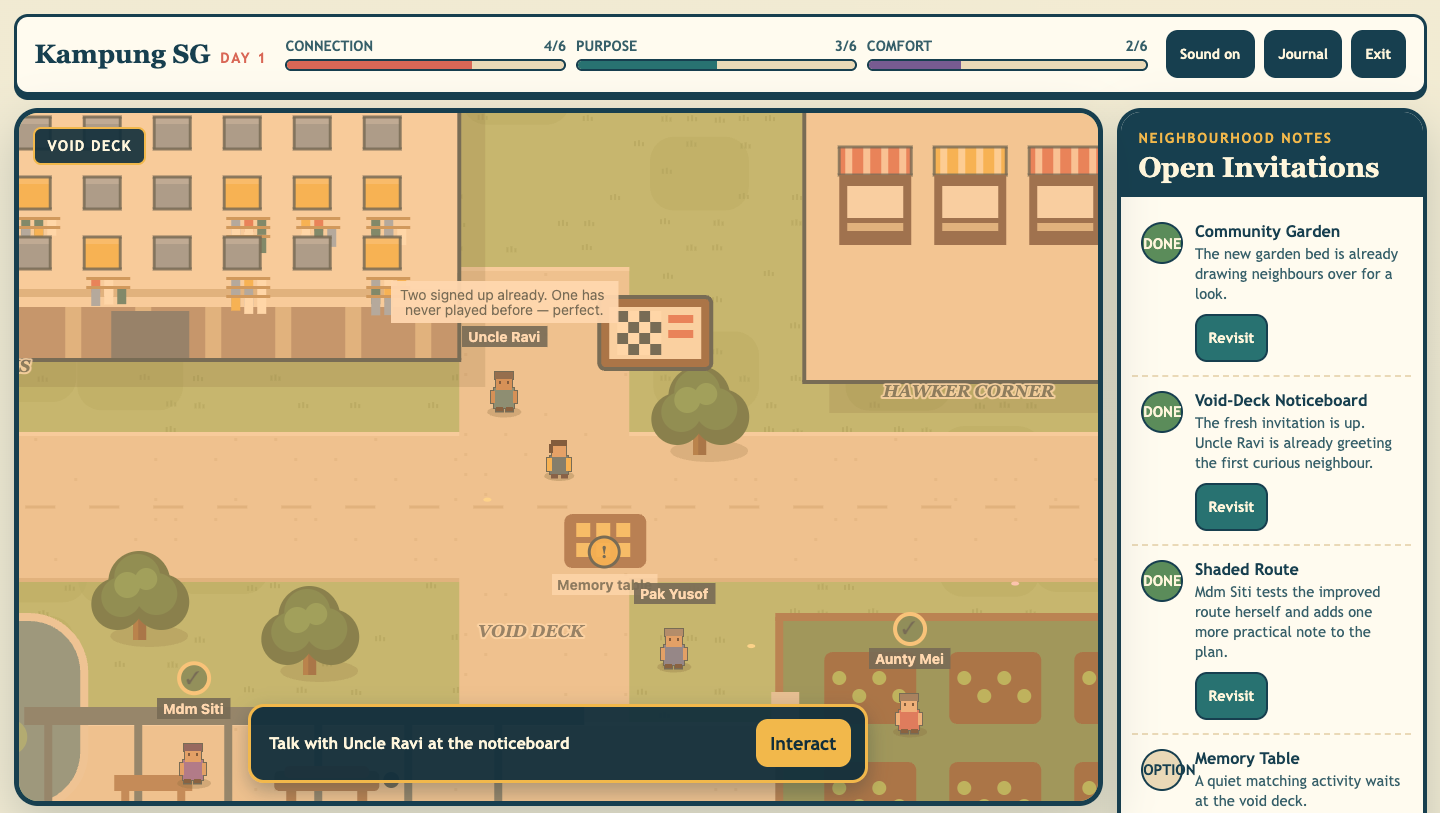
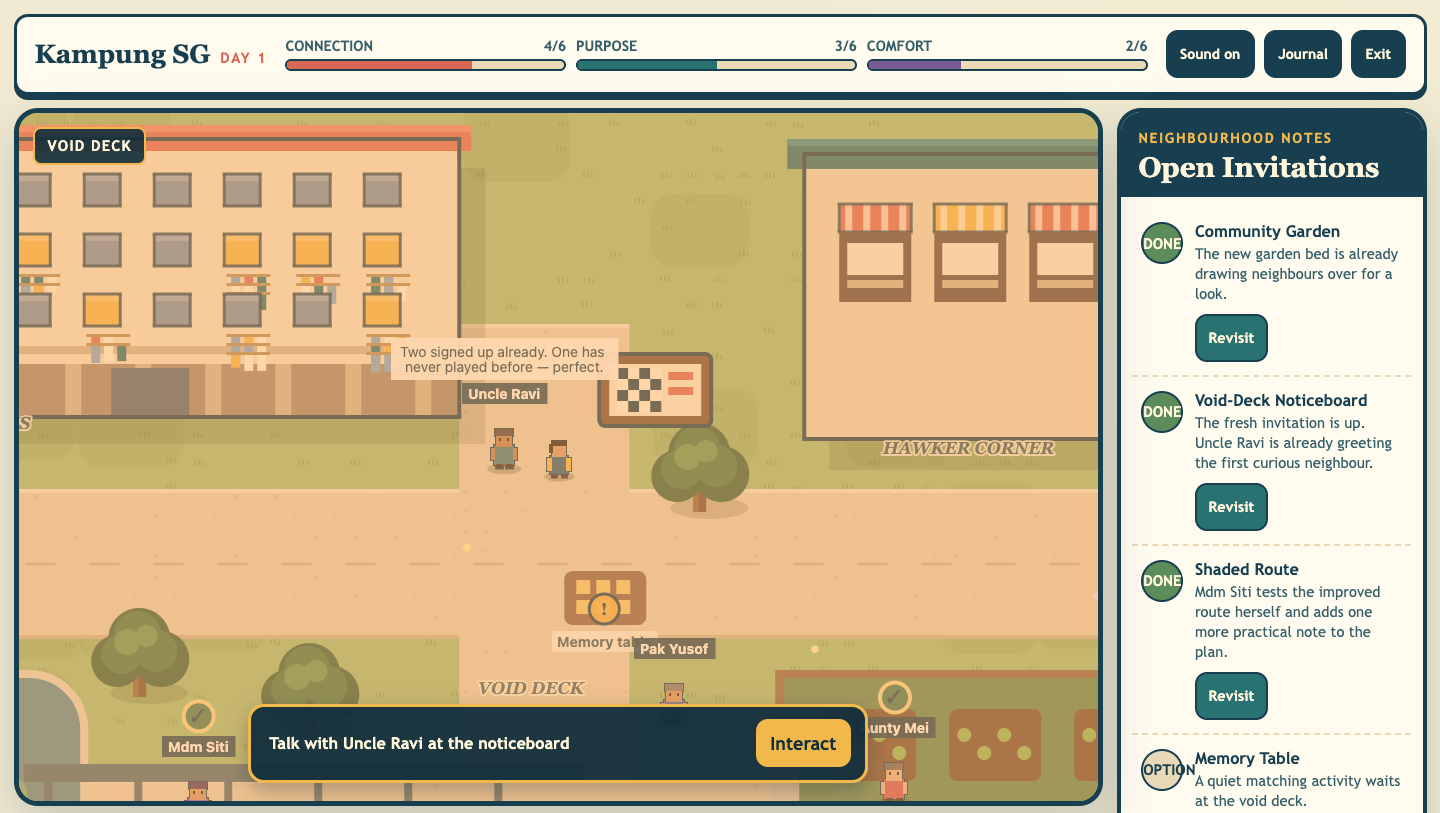
Give the world physical presence, and the bus stop a bus
Collision for everything the player could previously walk through: tree trunks
(canopies stay walk-behind - blocking foliage puts invisible walls metres from
anything visible), the memory table, kopitiam tables, playground and fitness
equipment, walkway posts, and the bus-stop posts, bench and flag. The community
garden is now fenced with a real gate on the walkway side, and the space under
the bus shelter stays walkable, because standing under one is its entire point.

An ambient bus works the lower road: in from the west, eases to a halt at the
stop, waits a moment, pulls away east, and returns every 14-28 seconds. Drawn
procedurally in the estate palette with lit windows; no physics body, so it can
never pin the player. Under prefers-reduced-motion it waits at the stop instead
of driving.

70 tests, 22/22 browser smoke - keyboard-movement checks verified against the
new memory-table collision.

Changed region(s): [[0.0, 0.123, 0.7812, 0.984], [0.5312, 0.123, 0.7812, 0.369], [0.3438, 0.8303, 0.4062, 0.861]]

diff --git a/src/game/sandboxScene.ts b/src/game/sandboxScene.ts
@@ -297,6 +297,7 @@ export class SandboxScene extends Phaser.Scene {
     this.createAmbientLife();
     this.createResidents();
     this.createNeighbours();
+    this.createBus();
     this.createInteractionMarkers();
     this.createPlayer();
     this.createEveningLight();
@@ -475,6 +476,7 @@ export class SandboxScene extends Phaser.Scene {
       graphics.destroy();
     }
 
+    this.createBusTexture();
     this.createResidentTexture("resident-mei", 0xc85c5c, 0x6b6560, 0xe3b58c);
     this.createResidentTexture("resident-ravi", 0x3d7a80, 0x4a4340, 0xb87f52);
     this.createResidentTexture("resident-siti", 0x7b5aa6, 0x4c3b5f, 0xcf9a6c);
@@ -490,6 +492,89 @@ export class SandboxScene extends Phaser.Scene {
    * tone, and everyone gets the same ink outline weight the buildings use, so
    * people stop reading as pasted in from another game.
    */
+  private createBusTexture(): void {
+    if (this.textures.exists("bus")) return;
+    const graphics = this.make.graphics({ x: 0, y: 0 });
+
+    // Body with ink outline, teal service band, and a row of lit windows.
+    graphics.fillStyle(INK, 1);
+    graphics.fillRoundedRect(2, 4, 146, 44, 9);
+    graphics.fillStyle(0xf4e8cf, 1);
+    graphics.fillRoundedRect(5, 7, 140, 38, 7);
+    graphics.fillStyle(TEAL, 1);
+    graphics.fillRect(5, 34, 140, 11);
+
+    graphics.fillStyle(INK, 1);
+    for (let window = 0; window < 5; window += 1) {
+      graphics.fillRect(12 + window * 23, 12, 18, 14);
+    }
+    graphics.fillStyle(0xf4d58d, 1);
+    for (let window = 0; window < 5; window += 1) {
+      graphics.fillRect(14 + window * 23, 14, 14, 10);
+    }
+
+    // Door outline near the front.
+    graphics.fillStyle(INK, 1);
+    graphics.fillRect(126, 12, 3, 30);
+
+    // Wheels and a headlight on the leading edge.
+    graphics.fillStyle(INK, 1);
+    graphics.fillCircle(30, 48, 8);
+    graphics.fillCircle(118, 48, 8);
+    graphics.fillStyle(0x6b6560, 1);
+    graphics.fillCircle(30, 48, 4);
+    graphics.fillCircle(118, 48, 4);
+    graphics.fillStyle(GOLD, 1);
+    graphics.fillRect(142, 26, 5, 8);
+
+    graphics.generateTexture("bus", 152, 58);
+    graphics.destroy();
+  }
+
+  /**
+   * A bus works the lower road: in from the west, eases to a halt at the stop,
+   * waits with the doors open a moment, then pulls away east. Purely ambient -
+   * no physics body, so it can never pin the player. Under reduced motion it
+   * waits at the stop instead of driving.
+   */
+  private createBus(): void {
+    const laneY = 1214;
+    const stopX = 1005;
+    const bus = this.add.sprite(-180, laneY, "bus").setDepth(laneY + 40);
+
+    if (window.matchMedia("(prefers-reduced-motion: reduce)").matches) {
+      bus.setPosition(stopX, laneY);
+      return;
+    }
+
+    const depart = (): void => {
+      this.tweens.add({
+        targets: bus,
+        x: WORLD_WIDTH + 200,
+        duration: 5200,
+        ease: "Sine.easeIn",
+        onComplete: () => {
+          bus.setX(-180);
+          this.time.delayedCall(14000 + Math.random() * 14000, arrive);
+        },
+      });
+    };
+
+    const arrive = (): void => {
+      this.tweens.add({
+        targets: bus,
+        x: stopX,
+        duration: 5600,
+        ease: "Sine.easeOut",
+        onComplete: () => {
+          this.time.delayedCall(3200, depart);
+        },
+      });
+    };
+
+    this.time.delayedCall(5000, arrive);
+  }
+
   private createResidentTexture(
     key: string,
     shirtColour: number,
@@ -688,6 +773,7 @@ export class SandboxScene extends Phaser.Scene {
       for (const [dx, dy] of [[-44, 0], [44, 0], [0, -44], [0, 44]]) {
         graphics.fillCircle(x + dx, 250 + dy, 11);
       }
+      this.addObstacle(x - 26, 226, 52, 48);
     }
 
     graphics.fillStyle(0x6f4f36, 1);
@@ -735,6 +821,9 @@ export class SandboxScene extends Phaser.Scene {
     graphics.fillRect(1906, 704, 8, 60);
     graphics.fillStyle(0xd96756, 1);
     graphics.fillRect(1846, 756, 28, 10);
+
+    this.addObstacle(1620, 692, 112, 88);
+    this.addObstacle(1820, 692, 100, 72);
   }
 
   private drawCommunityCentre(graphics: Phaser.GameObjects.Graphics): void {
@@ -775,6 +864,9 @@ export class SandboxScene extends Phaser.Scene {
     graphics.fillStyle(0xd96756, 1);
     graphics.fillCircle(280, 1370, 22);
     graphics.fillCircle(420, 1385, 18);
+
+    this.addObstacle(213, 1223, 108, 94);
+    this.addObstacle(378, 1248, 88, 70);
   }
 
   private drawBusStop(graphics: Phaser.GameObjects.Graphics): void {
@@ -789,6 +881,13 @@ export class SandboxScene extends Phaser.Scene {
     graphics.fillStyle(0xf2b84b, 1);
     graphics.fillRect(1150, 1270, 10, 90);
     graphics.fillRect(1140, 1262, 30, 20);
+
+    // Posts, bench and flag are solid; the sheltered space stays walkable -
+    // standing under a bus shelter is the entire point of one.
+    this.addObstacle(888, 1293, 14, 60);
+    this.addObstacle(1104, 1293, 14, 60);
+    this.addObstacle(930, 1330, 130, 36);
+    this.addObstacle(1146, 1298, 16, 60);
   }
 
   private drawHdb(graphics: Phaser.GameObjects.Graphics): void {
@@ -898,6 +997,13 @@ export class SandboxScene extends Phaser.Scene {
     }
     graphics.fillStyle(0xd8cfb7, 1);
     graphics.fillRect(1002, 665, 28, 65);
+
+    // The fence is real: enter through the gate off the walkway, not the hedge.
+    this.addObstacle(1010, 586, 460, 8);
+    this.addObstacle(1010, 886, 460, 8);
+    this.addObstacle(1010, 595, 8, 55);
+    this.addObstacle(1010, 745, 8, 145);
+    this.addObstacle(1462, 590, 8, 300);
   }
 
   private drawPond(graphics: Phaser.GameObjects.Graphics): void {
@@ -916,6 +1022,7 @@ export class SandboxScene extends Phaser.Scene {
     graphics.fillRect(255, 680, 560, 18);
     for (let x = 275; x < 815; x += 90) {
       graphics.fillRect(x, 698, 8, 96);
+      this.addObstacle(x, 762, 8, 32);
     }
     graphics.fillStyle(0x9b7653, 1);
     graphics.fillRect(345, 748, 78, 16);
@@ -932,6 +1039,7 @@ export class SandboxScene extends Phaser.Scene {
         graphics.fillRect(807 + column * 20, 496 + row * 20, 14, 14);
       }
     }
+    this.addObstacle(795, 487, 82, 54);
   }
 
   private drawGardenChoice(choiceId: string): void {
@@ -1053,6 +1161,10 @@ export class SandboxScene extends Phaser.Scene {
    * estates - built in three tonal layers with the light coming from upper left.
    */
   private drawTree(graphics: Phaser.GameObjects.Graphics, x: number, y: number): void {
+    // Only the trunk is solid. Blocking the canopy would put an invisible wall
+    // metres from anything visible; walking behind foliage is the depth cue.
+    this.addObstacle(x - 9, y + 6, 18, 22);
+
     graphics.fillStyle(SHADOW, 0.2);
     graphics.fillEllipse(x + 10, y + 24, 78, 22);
 

diff --git a/docs/AI_USAGE_LOG.md b/docs/AI_USAGE_LOG.md
@@ -489,3 +489,29 @@ browser smoke including the new judge-path check.
 
 **Claim boundary:** demo mode compresses pacing for a timed judging window.
 The full game remains 6-8 minutes by design, and no demo-only content exists.
+
+## 2026-08-02 - Solid World and the Bus
+
+**Tool:** Claude Code (Opus 5), working under human direction.
+
+**Goal:** Two user requests: objects should have physical presence (no walking
+through trees or furniture), and the bus stop should occasionally have a bus.
+
+**Implemented:**
+
+- Collision for previously ghost-through props: tree trunks (canopies stay
+  walk-behind for depth), the memory table, kopitiam tables, playground
+  equipment, fitness-corner equipment, walkway posts, and the bus-stop posts,
+  bench and flag. The garden is now fenced with a real gate on the walkway
+  side. The sheltered space under the bus stop stays walkable on purpose.
+- An ambient bus works the lower road: eases in from the west, halts at the
+  stop for a few seconds, pulls away east, and returns on a randomised 14-28s
+  interval. Drawn procedurally (ink outline, teal band, lit windows). No
+  physics body, so it can never pin the player. Under prefers-reduced-motion it
+  waits at the stop instead of driving.
+
+**Verified results:** typecheck clean; 70/70 tests; 22/22 browser smoke - the
+keyboard-movement checks now pass against the new memory-table collision, with
+the player stopping at the table edge still inside interaction range.
+
+**Claim boundary:** ambient behaviour only; no new progression, no new claims.

diff --git a/docs/IMPROVEMENTS.md b/docs/IMPROVEMENTS.md
@@ -51,6 +51,8 @@ plus a second playthrough, and writes fresh screenshots to `docs/screenshots/`.
 | **P0-16** player shirt hex typo; per-frame label hiding; ending could be un-ended | 2026-08-01 |
 | **P0-17** duplicate interact button hidden on touch devices | 2026-08-01 |
 | **Judge path** — `?demo=1` compresses the session (2-of-3 evening, faster walk) for timed judging; documented in `docs/DEMO_MODE.md`; 5 unit tests + 1 smoke check | 2026-08-01 |
+| Solid world — collision for tree trunks, tables, playground/fitness equipment, walkway posts, garden fence with gate, bus-stop furniture | 2026-08-02 |
+| Ambient bus serves the bus stop on a randomised interval; parked variant under reduced motion | 2026-08-02 |
 
 **Biggest remaining item: P0-1**, the character rebuild (silhouette variety, age
 signalling, build/height variation). Outlines, faces and skin tones are done;
